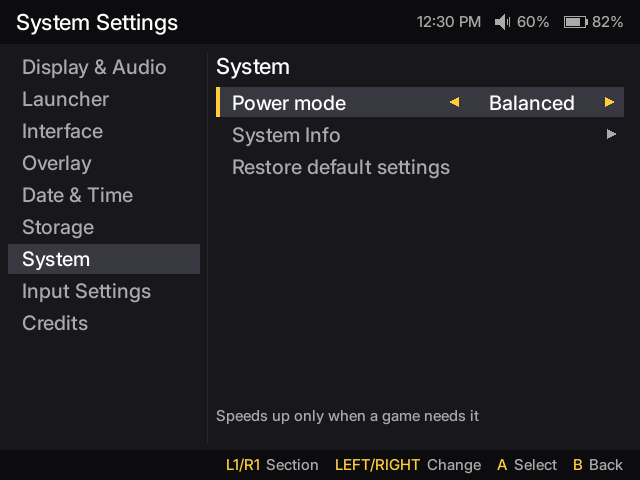
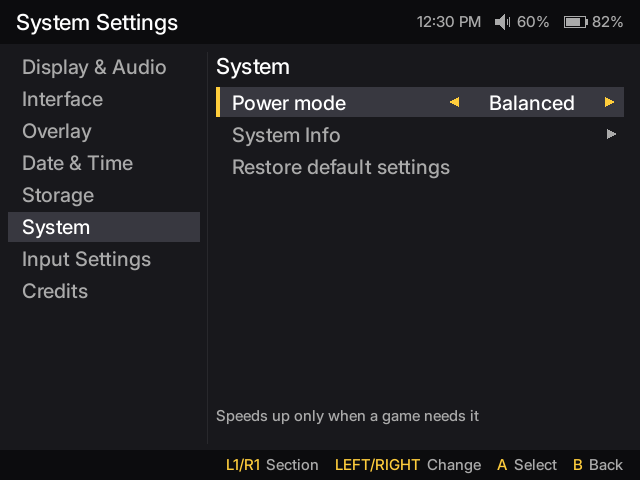
System Settings: the Launcher section joins Interface
The owner found the two the same thing: the grid or list view was
under Launcher, the retro or modern style under Interface. Interface
now holds the language, then Look (Style, View, Font, Accent color,
Show Puppy on loading screens), then Tabs (Show tabs, Launcher tabs),
and the Launcher section is gone. In the group's context two labels
get shorter: "Launcher view" is View and "Show launcher tabs" is Show
tabs. The tabs subpage is still Launcher tabs.

The scenes walk the sections by position, so every scene going past
Display & Audio takes one Down less, and the ones that used the
Launcher page now go to Interface's rows. With those paths, the
settings scenes change only in the sections column, except the
Interface page itself; the scenes that end in the launcher don't
change. README: the settings tree, and the sections column of the six
System Settings shots, pasted from the matching scenes, which their
old column matched pixel for pixel. pt-BR: Look, View, Tabs, Show
tabs; the two old labels are gone.

Changed region(s): [[0.0, 0.25, 0.3125, 0.625], [0.0312, 0.1875, 0.1875, 0.2188], [0.0312, 0.6562, 0.1562, 0.6875]]

diff --git a/rootfs/package/puppy/src/settings_pages.cpp b/rootfs/package/puppy/src/settings_pages.cpp
@@ -82,7 +82,7 @@ static const char* const kShortcuts[][2] = {
 
 const std::vector<std::pair<SettingsScreen::Page, const char*>>& SettingsScreen::sections() const {
     static const std::vector<std::pair<Page, const char*>> list = {
-        {Page::Display, "Display & Audio"}, {Page::Launcher, "Launcher"}, {Page::Interface, "Interface"},
+        {Page::Display, "Display & Audio"}, {Page::Interface, "Interface"},
         {Page::Overlay, "Overlay"}, {Page::DateTime, "Date & Time"}, {Page::Storage, "Storage"},
         {Page::System, "System"}, {Page::Input, "Input Settings"}, {Page::Credits, "Credits"},
     };
@@ -121,7 +121,6 @@ std::string SettingsScreen::pageHint(Page p) const {
 std::vector<Row> SettingsScreen::rows(Page p) {
     switch (p) {
         case Page::Display:   return displayPage();
-        case Page::Launcher:  return launcherPage();
         case Page::Interface: return interfacePage();
         case Page::Overlay:   return overlayPage();
         case Page::DateTime:  return dateTimePage();
@@ -166,23 +165,6 @@ std::vector<Row> SettingsScreen::displayPage() {
     return rows;
 }
 
-std::vector<Row> SettingsScreen::launcherPage() {
-    std::vector<Row> rows;
-    rows.push_back(Row::toggle("Show launcher tabs", launcher.showTabs, [this](int on) {
-        launcher.showTabs = on;
-        prefs.showTabs = on;
-        prefs.save();
-    }));
-    rows.push_back(Row::choice("Launcher view", {"Grid", "List"}, launcher.view == View::List ? 1 : 0, [this](int i) {
-        launcher.view = i ? View::List : View::Grid;
-        prefs.listView = i;
-        prefs.save();
-    }));
-    if (std::any_of(launcher.categories.begin(), launcher.categories.end(), [](const Category& c) { return !c.mixed; }))
-        rows.push_back(Row::link("Launcher tabs", [this] { open(Page::Tabs); }));
-    return rows;
-}
-
 std::vector<Row> SettingsScreen::tabsPage() {
     std::vector<Row> rows;
     for (const Category& c : launcher.categories) {
@@ -221,6 +203,22 @@ std::vector<Row> SettingsScreen::interfacePage() {
     language.rawChoices = true;
     rows.push_back(language);
 
+    // The launcher's look: the style and the view first, as they change the most
+    rows.push_back(Row::section("Look"));
+    std::vector<std::string> styleNames;
+    for (const styles::Style& s : styles::all()) styleNames.push_back(s.name);
+    rows.push_back(Row::choice("Style", styleNames, styles::find(prefs.style), [this](int i) {
+        prefs.style = styles::all()[i].key;
+        prefs.save();
+        styles::choose(prefs.style);
+        applyFont();    // the modern style has its own default font
+    }));
+    rows.push_back(Row::choice("View", {"Grid", "List"}, launcher.view == View::List ? 1 : 0, [this](int i) {
+        launcher.view = i ? View::List : View::Grid;
+        prefs.listView = i;
+        prefs.save();
+    }));
+
     std::vector<std::string> fontNames, keys;
     int currentFont = 0;
     const int chosen = fonts::find(prefs.font);
@@ -255,19 +253,19 @@ std::vector<Row> SettingsScreen::interfacePage() {
     accentRow.swatches = accentColors;
     rows.push_back(accentRow);
 
-    std::vector<std::string> styleNames;
-    for (const styles::Style& s : styles::all()) styleNames.push_back(s.name);
-    rows.push_back(Row::choice("Style", styleNames, styles::find(prefs.style), [this](int i) {
-        prefs.style = styles::all()[i].key;
-        prefs.save();
-        styles::choose(prefs.style);
-        applyFont();    // the modern style has its own default font
-    }));
-
     rows.push_back(Row::toggle("Show Puppy on loading screens", !prefs.loadingText, [this](int on) {
         prefs.loadingText = !on;
         prefs.save();
     }));
+
+    rows.push_back(Row::section("Tabs"));
+    rows.push_back(Row::toggle("Show tabs", launcher.showTabs, [this](int on) {
+        launcher.showTabs = on;
+        prefs.showTabs = on;
+        prefs.save();
+    }));
+    if (std::any_of(launcher.categories.begin(), launcher.categories.end(), [](const Category& c) { return !c.mixed; }))
+        rows.push_back(Row::link("Launcher tabs", [this] { open(Page::Tabs); }));
     return rows;
 }
 

diff --git a/rootfs/package/puppy/src/settings.h b/rootfs/package/puppy/src/settings.h
@@ -64,7 +64,7 @@ public:
     void levelsChanged() override;
 
 private:
-    enum class Page { Display, Launcher, Interface, Overlay, DateTime, Storage, System, Input,
+    enum class Page { Display, Interface, Overlay, DateTime, Storage, System, Input,
                       Tabs, Shortcuts, Info, Resize, Credits };
     struct Cursor {
         int sel = -1;       // the selected row, -1 for none (a page with nothing to change scrolls)
@@ -123,7 +123,6 @@ private:
 
     // the pages (settings_pages.cpp)
     std::vector<Row> displayPage();
-    std::vector<Row> launcherPage();
     std::vector<Row> tabsPage();
     std::vector<Row> interfacePage();
     std::vector<Row> overlayPage();

diff --git a/README.md b/README.md
@@ -184,16 +184,15 @@ System Settings
 │   ├── Master Volume
 │   ├── Global Mute
 │   └── Audio output: Speaker / Headphones
-├── Launcher
-│   ├── Show launcher tabs
-│   ├── Launcher view: Grid / List
-│   └── Launcher tabs ─ which tabs to show
 ├── Interface
 │   ├── Language
+│   ├── Look: Style: Retro / Modern
+│   ├── View: Grid / List
 │   ├── Font
 │   ├── Accent color ─ the highlight colour, from a list of 9
-│   ├── Style: Retro / Modern
-│   └── Show Puppy on loading screens (off: a plain "Loading..." while a game starts)
+│   ├── Show Puppy on loading screens (off: a plain "Loading..." while a game starts)
+│   ├── Tabs: Show tabs
+│   └── Launcher tabs ─ which tabs to show
 ├── Overlay
 │   ├── Status bar: In game, In the launcher
 │   ├── Show date
